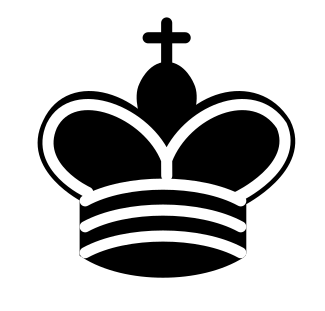
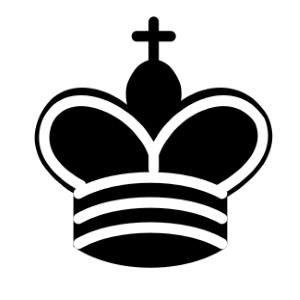
updated images sizes, can drag around a piece

diff --git a/main.py b/main.py
@@ -12,9 +12,10 @@ WIN = pygame.display.set_mode((WIDTH, HEIGHT))
 pygame.display.set_caption('Python Chess')
 
 
-pieces = pygame.image.load("images/chess-pieces.png")
-pieces = pygame.transform.scale(pieces, (pieces.get_width() // 3, pieces.get_height() // 3))
-imagerect = pieces.get_rect()
+white_king = pygame.image.load("images/WK.png")
+white_king = pygame.transform.scale(white_king, (white_king.get_width() // 3, white_king.get_height() // 3))
+
+imagerect = white_king.get_rect()
 
 def main():
     run = True
@@ -23,7 +24,8 @@ def main():
     # new board object
     board = Board()
 
-    
+    # initial position of the piece
+    mx, my = 50, 50
 
     while(run):
         
@@ -34,12 +36,15 @@ def main():
             if event.type == pygame.QUIT:
                 run = False
         
-            if event.type == pygame.MOUSEBUTTONDOWN:
-                pass
+            # move piece while mouse being pressed
+            if pygame.mouse.get_pressed()[0] == True:
+                mx, my = pygame.mouse.get_pos()
+        
         
         # draw the board at the end of each loop
         board.draw_board(WIN)
-        WIN.blit(pieces, imagerect)
+        # WIN.blit(white_king, imagerect)
+        WIN.blit(white_king, (mx - 50, my - 50))
         pygame.display.update()
 
     pygame.quit()

diff --git a/chess/board.py b/chess/board.py
@@ -15,5 +15,6 @@ class Board:
             for col in range(row % 2, ROWS, 2):
                 pygame.draw.rect(win, GRAY, (row * SQUARE_SIZE, col * SQUARE_SIZE, SQUARE_SIZE, SQUARE_SIZE))
 
+    # function to fill up the board with appropriate pieces in their specific locations
     def create_board(self):
         pass
